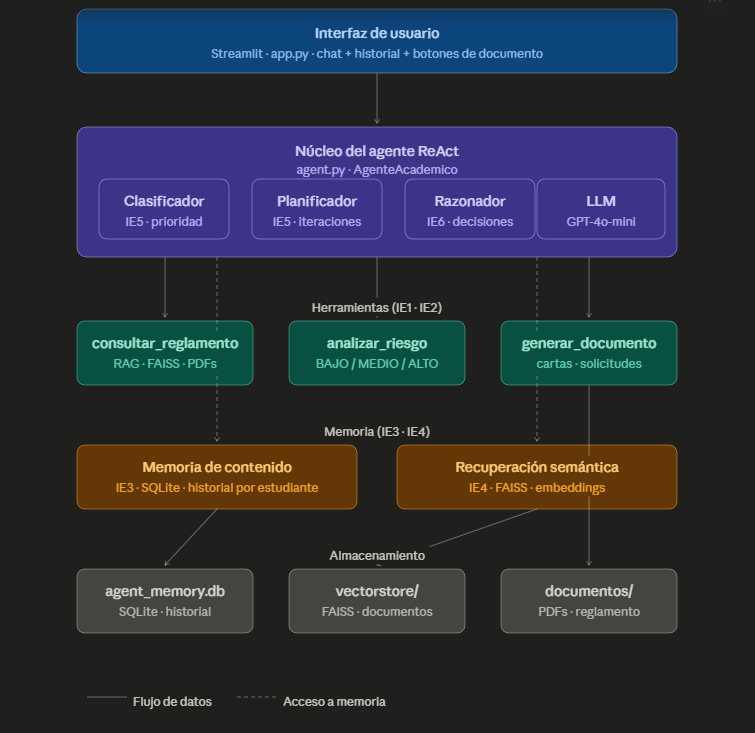
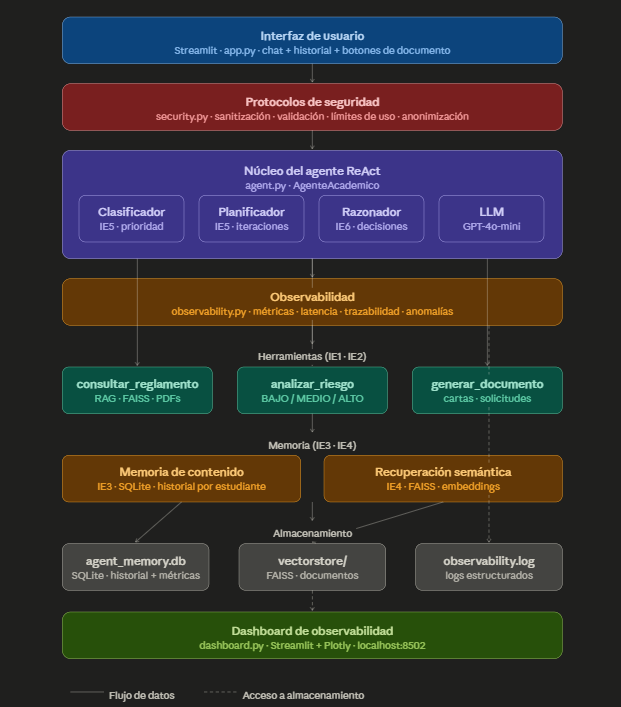
EP3: Actualizar diagrama de orquestación y README con módulos de observabilidad y seguridad

diff --git a/README.md b/README.md
@@ -1,15 +1,17 @@
-# 🎓 Asistente Académico IA — Agente ReAct
+# 🎓 Asistente Académico IA — Agente ReAct + Observabilidad
 
 **Asignatura:** ISY0101 — Optativo Ingeniería de Soluciones con IA  
 **Institución:** DuocUC  
 **Integrantes:** Patricio Azolas · Felipe Véliz  
-**Evaluación:** Parcial N°2 — Desarrollo de un Agente Funcional
+**Evaluaciones:** EP1 — Sistema RAG | EP2 — Agente ReAct | EP3 — Observabilidad
 
 ---
 
 ## Descripción
 
 Sistema de asesoría académica basado en un agente inteligente que integra herramientas de consulta, análisis y generación de documentos sobre el Reglamento Académico y el Calendario de DuocUC. El agente implementa el patrón **ReAct (Reasoning + Acting)**, combinando razonamiento iterativo con acciones concretas para responder consultas estudiantiles de forma adaptativa.
+
+A partir de EP3, el sistema incorpora **observabilidad completa**: métricas de latencia, precisión y recursos, trazabilidad de ejecución, dashboard visual interactivo y protocolos de seguridad y uso responsable.
 
 El sistema es capaz de:
 - Consultar información del reglamento académico mediante RAG (Retrieval-Augmented Generation)
@@ -18,6 +20,9 @@ El sistema es capaz de:
 - Mantener memoria persistente por estudiante entre sesiones
 - Recuperar contexto semántico de consultas previas similares
 - Clasificar consultas y planificar iteraciones según su prioridad
+- **Medir latencia, precisión y uso de recursos en tiempo real**
+- **Detectar anomalías y patrones en los registros de ejecución**
+- **Bloquear intentos de prompt injection y consultas fuera de dominio**
 
 ---
 
@@ -40,6 +45,10 @@ El sistema se organiza en 5 capas:
 ```
 Consulta del estudiante
         ↓
+[SEG] Validación y sanitización de input (security.py)
+        ↓
+[OBS] Iniciar observador de métricas (observability.py)
+        ↓
 [IE3] Cargar historial SQLite
         ↓
 [IE4] Recuperación semántica (FAISS + embeddings)
@@ -53,27 +62,59 @@ Consulta del estudiante
         ↓
 [IE6] Decisión adaptativa según riesgo (BAJO / MEDIO / ALTO)
         ↓
+[OBS] Registrar métricas, latencia y trazabilidad
+        ↓
 Respuesta final + oferta de documento si aplica
 ```
 
 ---
 
+## Módulos de Observabilidad (EP3)
+
+### observability.py
+Registra métricas y trazabilidad en SQLite:
+- **IE1:** Precisión, consistencia y frecuencia de errores
+- **IE2:** Latencia por herramienta y uso de CPU/RAM (psutil)
+- **IE3:** Trazabilidad paso a paso de cada ejecución
+- **IE4:** Detección automática de anomalías
+
+### dashboard.py
+Dashboard visual interactivo (Streamlit + Plotly):
+- Métricas generales en tiempo real
+- Gráficos de latencia por herramienta
+- Distribución de riesgo y categorías
+- Trazabilidad filtrable por estado, herramienta y estudiante
+- Panel de seguridad y uso responsable
+
+### security.py
+Protocolos de seguridad y uso responsable:
+- Detección de prompt injection (14 patrones regex)
+- Anonimización de datos sensibles en logs
+- Validación de ID de estudiante
+- Límite de 50 consultas por estudiante/día
+- Truncado de inputs a 500 caracteres
+
+---
+
 ## Justificación de componentes
 
-### LangChain como framework (IE2)
-Se eligió **LangChain** por su compatibilidad nativa con FAISS, OpenAI y el patrón LCEL (LangChain Expression Language), permitiendo construir cadenas RAG reutilizables. Su ecosistema de `@tool` decorators facilita la integración de herramientas con tipado explícito, garantizando escalabilidad y compatibilidad técnica con el resto del sistema.
+### LangChain como framework
+Se eligió **LangChain** por su compatibilidad nativa con FAISS, OpenAI y el patrón LCEL, permitiendo construir cadenas RAG reutilizables con `@tool` decorators escalables.
 
-### FAISS para recuperación semántica (IE4)
-**FAISS** (Facebook AI Similarity Search) fue seleccionado por su eficiencia en búsqueda de vectores de alta dimensión. Se usa en dos capas: el vectorstore de documentos académicos (RAG) y la recuperación semántica del historial de conversaciones del estudiante, permitiendo recuperar consultas previas similares en lugar de solo las más recientes.
+### FAISS para recuperación semántica
+**FAISS** fue seleccionado por su eficiencia en búsqueda de vectores de alta dimensión, usado tanto en el vectorstore de documentos como en la recuperación semántica del historial.
 
-### SQLite para memoria persistente (IE3)
-**SQLite** ofrece persistencia local sin dependencias externas, ideal para un sistema académico donde cada estudiante tiene un identificador único. La tabla `estudiante_historico` almacena consultas, respuestas y nivel de riesgo, permitiendo continuidad entre sesiones sin infraestructura de servidor.
+### SQLite para memoria persistente
+**SQLite** ofrece persistencia local sin dependencias externas. Almacena historial de consultas, métricas de ejecución, trazabilidad y registros de errores.
 
 ### GPT-4o-mini como modelo base
-Se eligió **GPT-4o-mini** por su balance entre capacidad de razonamiento y costo por token. Es suficientemente capaz para clasificar consultas, analizar riesgo académico y generar documentos formales, sin requerir un modelo de mayor escala para este dominio acotado.
+Balance óptimo entre capacidad de razonamiento y costo por token para clasificar consultas, analizar riesgo académico y generar documentos formales.
 
-### Streamlit como interfaz (IE1)
-**Streamlit** permite construir interfaces web interactivas en Python puro, eliminando la necesidad de un frontend separado. Su modelo de re-renderizado por estado facilita el manejo del historial de conversación y los botones de acción dinámica.
+### Plotly para visualización (EP3)
+Gráficos interactivos (barras, tortas, líneas de tendencia) integrados directamente en Streamlit sin infraestructura adicional.
+
+### psutil para métricas de recursos (EP3)
+Captura uso de CPU y memoria RAM en tiempo real durante cada ejecución del agente.
 
 ---
 
@@ -82,19 +123,24 @@ Se eligió **GPT-4o-mini** por su balance entre capacidad de razonamiento y cost
 ```
 asistente_academico/
 ├── docs/
-│   └── diagrama_orquestacion.png   # Diagrama de arquitectura
+│   └── diagrama_orquestacion.PNG   # Diagrama de arquitectura
 ├── documentos/
 │   ├── RES-VRA-03-2024-NUEVO-REGLAMENTO-ACADÉMICO63-1.pdf
 │   └── Calendario_Académico_2026.pdf
 ├── vectorstore/                     # Índice FAISS (generado por ingest.py)
 ├── .streamlit/
-│   └── config.toml                  # Configuración de tema
-├── agent.py                         # Núcleo del agente ReAct
-├── app.py                           # Interfaz Streamlit
+│   └── config.toml                  # Configuración de tema claro
+├── agent.py                         # Núcleo del agente ReAct + observabilidad
+├── app.py                           # Interfaz Streamlit del asistente
+├── dashboard.py                     # Dashboard de observabilidad (EP3)
+├── observability.py                 # Métricas, logs y trazabilidad (EP3)
+├── security.py                      # Protocolos de seguridad (EP3)
 ├── rag_chain.py                     # Cadena RAG con LangChain
 ├── prompts.py                       # Templates de prompts
 ├── ingest.py                        # Ingesta y vectorización de documentos
+├── limpiar_errores_token.py         # Utilidad: limpieza de registros de error
 ├── agent_memory.db                  # Base de datos SQLite (generada al ejecutar)
+├── agent_observability.log          # Log estructurado (generado al ejecutar)
 ├── requirements.txt                 # Dependencias del proyecto
 └── .env.example                     # Variables de entorno requeridas
 ```
@@ -120,12 +166,8 @@ cd asistente_academico
 **2. Crear entorno virtual**
 ```bash
 python -m venv venv
-
-# Windows
-venv\Scripts\activate
-
-# macOS / Linux
-source venv/bin/activate
+venv\Scripts\activate      # Windows
+source venv/bin/activate   # macOS / Linux
 ```
 
 **3. Instalar dependencias**
@@ -134,8 +176,6 @@ pip install -r requirements.txt
 ```
 
 **4. Configurar variables de entorno**
-
-Copia `.env.example` a `.env` y completa los valores:
 ```bash
 cp .env.example .env
 ```
@@ -144,7 +184,7 @@ Contenido del `.env`:
 ```
 GITHUB_TOKEN=tu_token_aqui
 OPENAI_BASE_URL=https://models.inference.ai.azure.com
-OPENAI_EMBEDDINGS_URL=https://models.inference.ai.azure.com
+OPENAI_EMBEDDINGS_URL=https://models.github.ai/inference
 ```
 
 **5. Vectorizar los documentos**
@@ -152,42 +192,47 @@ OPENAI_EMBEDDINGS_URL=https://models.inference.ai.azure.com
 python ingest.py
 ```
 
-Este paso procesa los PDFs de la carpeta `documentos/` y genera el índice FAISS en `vectorstore/`.
-
 ---
 
 ## Ejecución
 
+### Asistente académico
 ```bash
 streamlit run app.py
 ```
+Disponible en `http://localhost:8501`
 
-La aplicación quedará disponible en `http://localhost:8501`.
+### Dashboard de observabilidad (EP3)
+```bash
+streamlit run dashboard.py
+```
+Disponible en `http://localhost:8502`
+
+Ambos pueden ejecutarse simultáneamente en terminales separadas. El dashboard se actualiza en tiempo real con cada consulta procesada.
 
 ---
 
 ## Uso del sistema
 
-### Configuración inicial
+### Asistente académico
+
 1. Ingresar un **ID de estudiante** en el sidebar (ej: `EST001`)
 2. Activar **"Mostrar razonamiento del agente"** para ver las iteraciones ReAct
-
-### Ejemplos de consultas
 
 | Tipo | Consulta | Comportamiento esperado |
 |------|---------|------------------------|
 | Informativa | `¿Cuál es el porcentaje mínimo de asistencia?` | 1 iteración, riesgo BAJO |
 | Situacional | `Reprobé una asignatura, ¿qué hago?` | 2 iteraciones, riesgo MEDIO, ofrece documento |
-| Crítica | `Me van a eliminar, reprobé 3 asignaturas` | 2 iteraciones prioritarias, riesgo ALTO, ofrece documento urgente |
+| Crítica | `Me van a eliminar, reprobé 3 asignaturas` | 2 iteraciones prioritarias, riesgo ALTO |
 
-### Generación de documentos
-Cuando el agente detecta riesgo MEDIO o ALTO, ofrece generar documentos formales:
-- 📄 Solicitud de entrevista con coordinador académico
-- 📄 Constancia de alumno regular
-- 📄 Apelación formal de calificación
+### Dashboard de observabilidad
 
-### Memoria entre sesiones
-El agente recuerda consultas previas del estudiante. Al usar el mismo ID en sesiones distintas, recupera contexto relevante y lo incluye en la respuesta.
+El dashboard muestra en tiempo real:
+- **Métricas generales:** tasa de éxito, latencia promedio, CPU y RAM
+- **Latencia por herramienta:** clasificación, consulta RAG, análisis, generación
+- **Patrones y anomalías:** detección automática de comportamientos anómalos
+- **Trazabilidad:** logs filtrables por estado, herramienta y estudiante
+- **Seguridad:** protocolos activos y actividad de uso por estudiante
 
 ---
 
@@ -195,16 +240,20 @@ El agente recuerda consultas previas del estudiante. Al usar el mismo ID en sesi
 
 | Caso | Estudiante | Consulta | Resultado |
 |------|-----------|---------|-----------|
-| 1 | EST001 | Asistencia mínima | Riesgo BAJO, 1 iteración |
-| 2 | EST002 | Reprobó 2 asignaturas | Riesgo ALTO, ofrece documento |
+| 1 | EST001 | Asistencia mínima | Riesgo BAJO, 1 iteración, latencia 4.260ms |
+| 2 | EST002 | Reprobó 2 asignaturas | Riesgo ALTO, ofrece documento, latencia 8.588ms |
 | 3 | EST001 | Segunda consulta | Recupera historial previo (IE3/IE4) |
 | 4 | EST002 | Genera solicitud | Carta formal generada correctamente |
+| 5 | EST001 | Prompt injection | Bloqueado por security.py |
+| 6 | EST003 | Situación crítica | Riesgo ALTO, 2 iteraciones prioritarias |
 
 ---
 
 ## Referencias bibliográficas
 
 Chase, H. (2022). *LangChain* (versión 0.3) [Software]. LangChain Inc. https://www.langchain.com
+
+Chen, C., Zaharia, M., & Zou, J. (2023). How is ChatGPT's behavior changing over time? *arXiv preprint*. https://arxiv.org/abs/2307.09009
 
 Johnson, J., Douze, M., & Jégou, H. (2019). Billion-scale similarity search with GPUs. *IEEE Transactions on Big Data, 7*(3), 535–547. https://doi.org/10.1109/TBDATA.2019.2921572
 
@@ -213,6 +262,12 @@ Lewis, P., Perez, E., Piktus, A., Petroni, F., Karpukhin, V., Goyal, N., Küttle
 Microsoft. (2024). *GitHub Models* [Plataforma de inferencia]. Microsoft Azure. https://github.com/marketplace/models
 
 OpenAI. (2024). *GPT-4o mini: Advancing cost-efficient intelligence*. OpenAI. https://openai.com/index/gpt-4o-mini-advancing-cost-efficient-intelligence/
+
+OpenTelemetry Authors. (2024). *OpenTelemetry documentation*. https://opentelemetry.io/docs/
+
+Plotly Technologies Inc. (2024). *Plotly Python graphing library*. https://plotly.com/python/
+
+psutil developers. (2024). *psutil documentation*. https://psutil.readthedocs.io/
 
 Streamlit Inc. (2024). *Streamlit documentation* (versión 1.x) [Software]. https://docs.streamlit.io
 